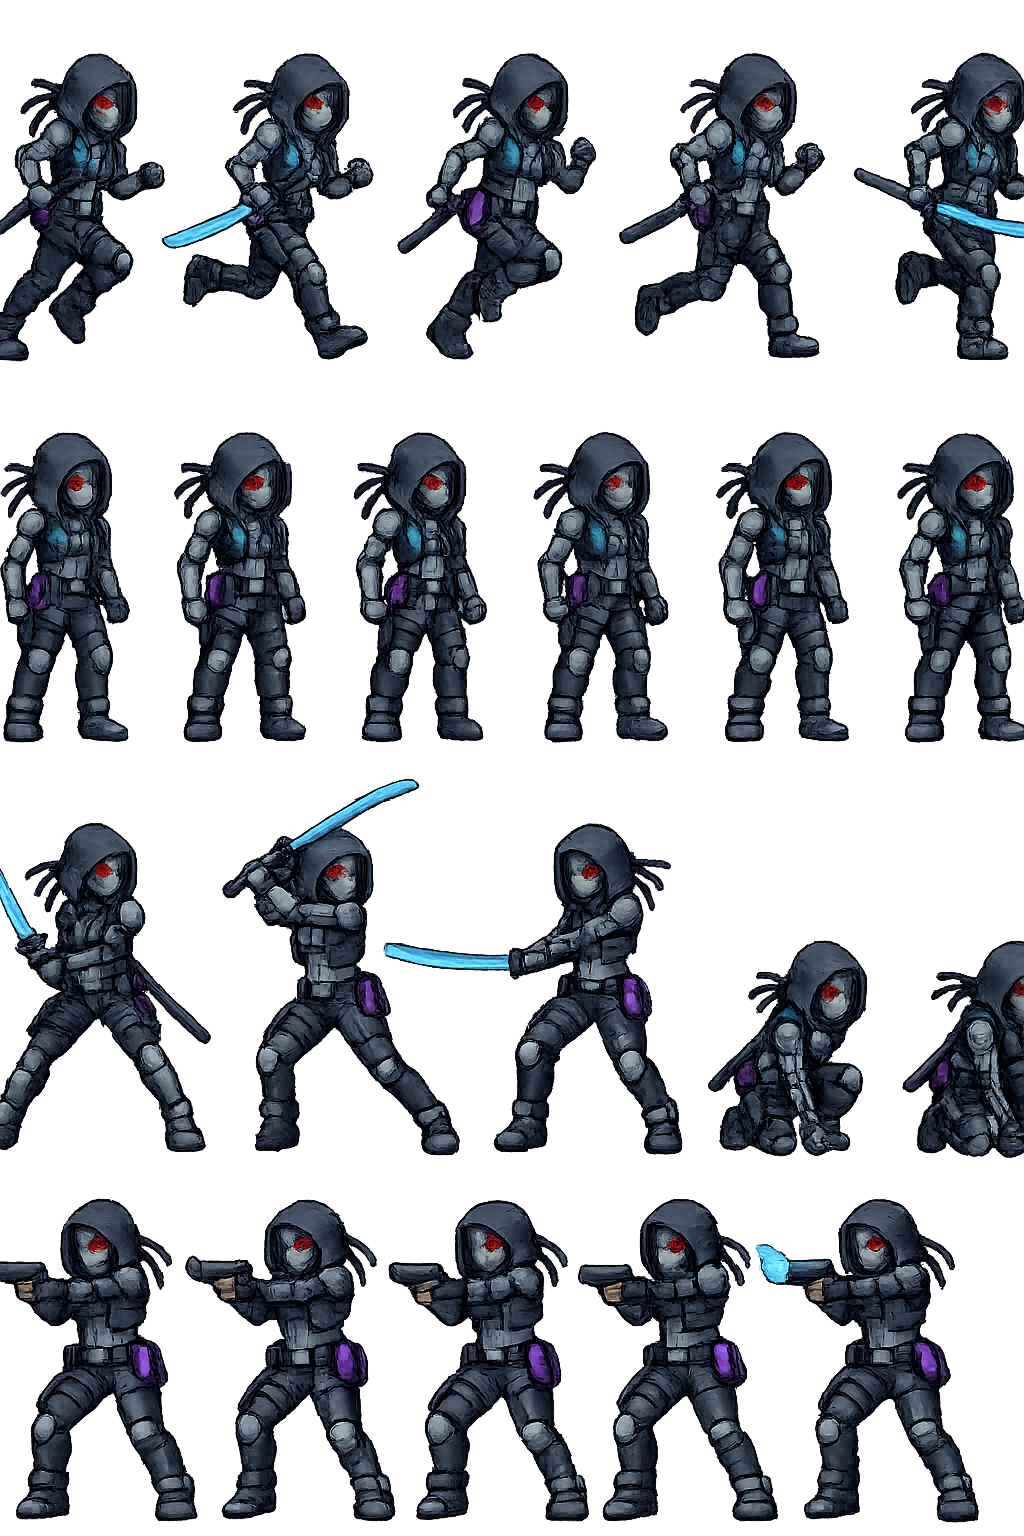
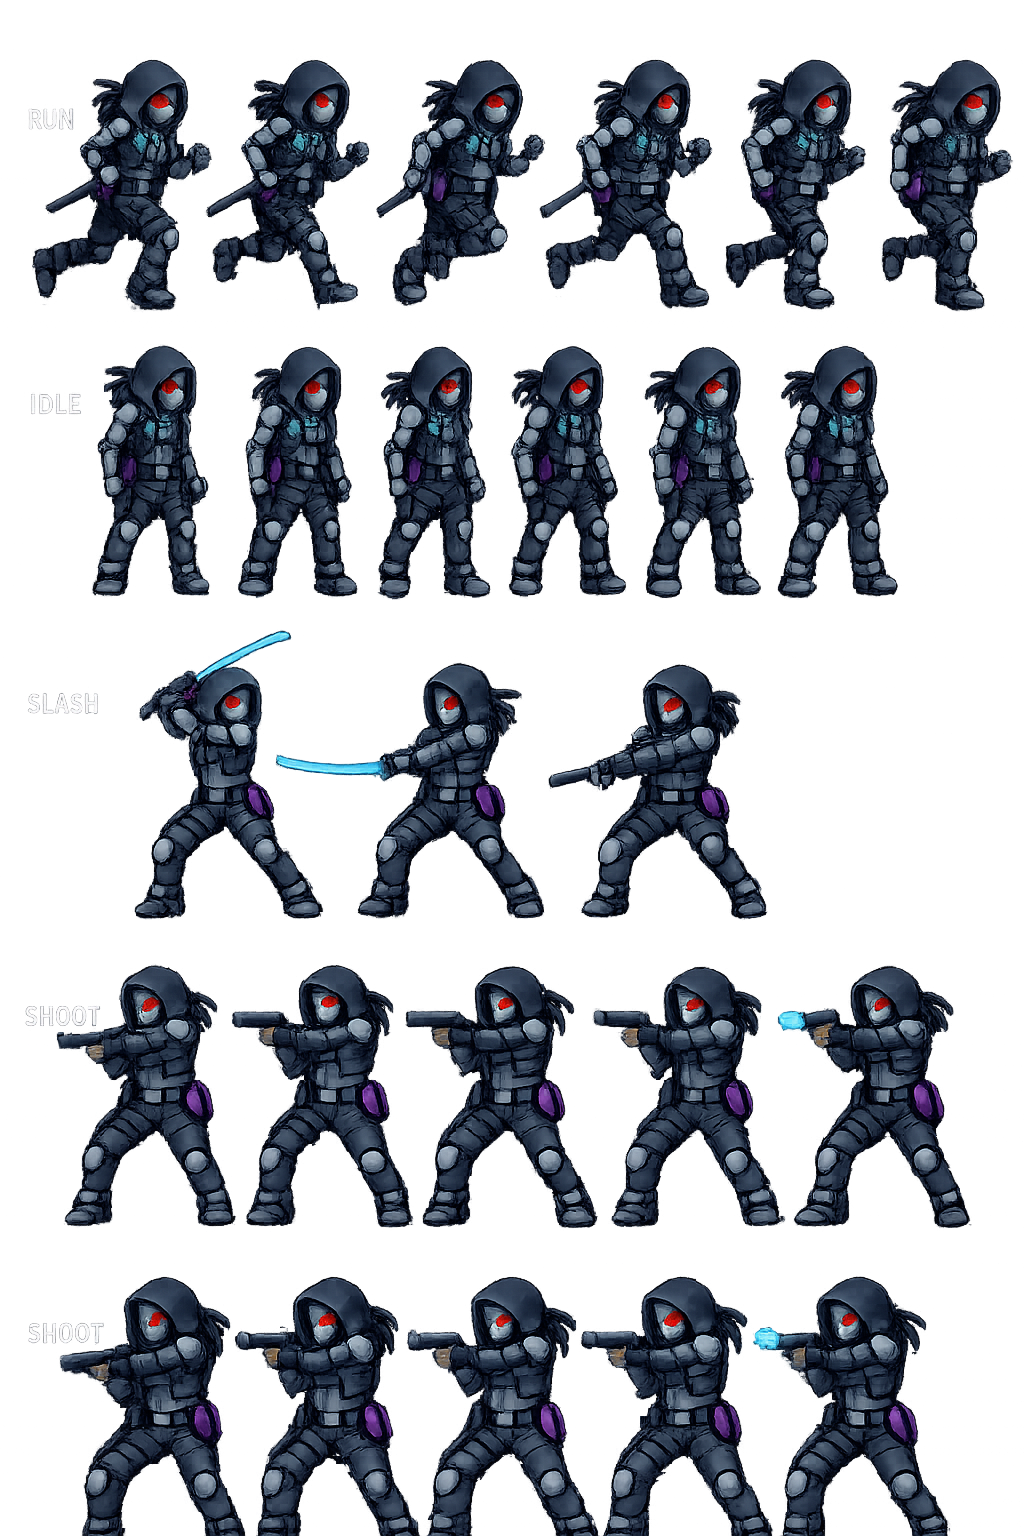
personaje bien puesto :D

diff --git a/main.py b/main.py
@@ -77,86 +77,109 @@ def _load_image_from_images(*names):
         f"No encontré el spritesheet en /images. Probé: {names}"
     )
 
-def _slice_trim_scale(sheet, rect: pygame.Rect, target_h: int):
-    """Corta rect, recorta transparencia alrededor y escala a altura target_h.
-    Si rect se sale del sheet, se recorta al área válida."""
+def _make_player_frame(sheet, rect: pygame.Rect, canvas_w: int, canvas_h: int, scale: float, min_alpha: int = 10):
+    """
+    1) Corta el rect
+    2) Encuentra el bounding box real (sin basurita de alpha bajo)
+    3) Pega en un CANVAS FIJO alineando al piso (bottom) y centrado
+    4) Escala con UN SOLO factor (scale) para que no "respire" ni tiemble
+    """
     bounds = sheet.get_rect()
     rect = rect.clip(bounds)
     if rect.width <= 0 or rect.height <= 0:
-        out = pygame.Surface((1, target_h or 1), pygame.SRCALPHA)
+        out = pygame.Surface((max(1, int(canvas_w * scale)), max(1, int(canvas_h * scale))), pygame.SRCALPHA)
         return out
-    surf = sheet.subsurface(rect).copy()
-    br = surf.get_bounding_rect()
-    if br.width <= 0 or br.height <= 0:
-        out = pygame.Surface((1, target_h or 1), pygame.SRCALPHA)
-        return out
-    surf = surf.subsurface(br).copy()
+    crop = sheet.subsurface(rect).copy()
 
-    if target_h is not None:
-        scale = target_h / max(1, surf.get_height())
-        w = max(1, int(surf.get_width() * scale))
-        surf = pygame.transform.smoothscale(surf, (w, target_h))
-    return surf
+    try:
+        br = crop.get_bounding_rect(min_alpha=min_alpha)
+    except TypeError:
+        br = crop.get_bounding_rect()
+    if br.w <= 0 or br.h <= 0:
+        br = crop.get_rect()
 
-# Ajusta esta altura si quieres el personaje más grande/pequeño en pantalla
-PLAYER_SPRITE_H = 96
+    canvas = pygame.Surface((canvas_w, canvas_h), pygame.SRCALPHA)
+
+    dx = (canvas_w - br.w) // 2          # centrado horizontal
+    dy = canvas_h - br.h                  # alineado al piso (bottom)
+
+    canvas.blit(crop, (dx, dy), area=br)
+
+    out_w = max(1, int(canvas_w * scale))
+    out_h = max(1, int(canvas_h * scale))
+    return pygame.transform.smoothscale(canvas, (out_w, out_h))
 
 # Carga con fallback por si el nombre está mal escrito
 _player_sheet = _load_image_from_images("spites.png", "spirtes.png", "sprites.png")
 
-# Coordenadas (basadas en tu sheet):
-# - Filas:
-#   Run:   y=64..485   (5 columnas iguales)
-#   Idle:  y=574..991  (6 frames con anchos distintos)
-#   Slash: y=1035..1546 (usaremos 3 primeros frames)
-#   Shoot: y=1595..2035 (5 columnas iguales)
+# ─────────────────────────────────────────────────────────
+# COORDENADAS PARA EL NUEVO SPRITESHEET (1024x1536)
+# Layout detectado:
+# RUN   : y 0..324    (6 frames)
+# IDLE  : y 325..614  (6 frames)
+# SLASH : y 615..937  (3 frames)
+# SHOOT : y 938..1254 (5 frames)  (la fila 5 se ignora)
+# ─────────────────────────────────────────────────────────
 
-RUN_Y0, RUN_H   = 64,   (485 - 64 + 1)
-IDLE_Y0, IDLE_H = 574,  (991 - 574 + 1)
-SLASH_Y0, SLASH_H = 1035, (1546 - 1035 + 1)
-SHOOT_Y0, SHOOT_H = 1595, (2035 - 1595 + 1)
+SHEET_W, SHEET_H = _player_sheet.get_width(), _player_sheet.get_height()
 
-CELL_W_5 = _player_sheet.get_width() // 5  # 1365//5 = 273
+RUN_Y0,   RUN_H   = 0,   325
+IDLE_Y0,  IDLE_H  = 325, 290
+SLASH_Y0, SLASH_H = 615, 323
+SHOOT_Y0, SHOOT_H = 938, 317
 
-# RUN (5 frames)
-SPR_RUN_R = [
-    _slice_trim_scale(_player_sheet, pygame.Rect(i*CELL_W_5, RUN_Y0, CELL_W_5, RUN_H), PLAYER_SPRITE_H)
-    for i in range(5)
+# Rangos X (x0, x1) por frame — ajustados para NO coger los textos
+RUN_X = [
+    (73, 201), (201, 379), (379, 537),
+    (537, 722), (722, 871), (871, 1003),
+]
+IDLE_X = [
+    (82, 223), (223, 366), (366, 498),
+    (498, 632), (632, 769), (769, 982),
+]
+SLASH_X = [
+    (121, 336), (336, 552), (552, 846),
+]
+# OJO: el frame 1 de SHOOT tiene el arma muy hacia la izquierda, por eso empieza en 110
+SHOOT_X = [
+    (110, 238), (238, 415), (415, 600),
+    (600, 783), (783, 1002),
 ]
 
-# IDLE (6 frames con x-ranges específicos)
-_idle_xranges = [
-    (0,   173),
-    (224, 410),
-    (467, 650),
-    (704, 895),
-    (936, 1134),
-    (1194, 1364),
-]
-SPR_IDLE_R = [
-    _slice_trim_scale(_player_sheet,
-                      pygame.Rect(x0, IDLE_Y0, (x1-x0+1), IDLE_H),
-                      PLAYER_SPRITE_H)
-    for (x0, x1) in _idle_xranges
-]
+# Canvas fijo (para estabilidad, sin jitter)
+_all_widths = [x1 - x0 for (x0, x1) in (RUN_X + IDLE_X + SLASH_X + SHOOT_X)]
+SRC_CANVAS_W = max(_all_widths) + 2          # +2 por seguridad
+SRC_CANVAS_H = max(RUN_H, IDLE_H, SLASH_H, SHOOT_H)
 
-# SLASH (usa los 3 primeros "celdas" de la fila de ataques)
-SPR_SLASH_R = [
-    _slice_trim_scale(_player_sheet, pygame.Rect(i*CELL_W_5, SLASH_Y0, CELL_W_5, SLASH_H), PLAYER_SPRITE_H)
-    for i in range(3)
-]
+# Tamaño final del personaje (ajústalo a gusto)
+PLAYER_SPRITE_H = 96
+SPR_SCALE = PLAYER_SPRITE_H / SRC_CANVAS_H
 
-# SHOOT (5 frames)
-SPR_SHOOT_R = [
-    _slice_trim_scale(_player_sheet, pygame.Rect(i*CELL_W_5, SHOOT_Y0, CELL_W_5, SHOOT_H), PLAYER_SPRITE_H)
-    for i in range(5)
-]
+def _build_frames(x_ranges, y0, h):
+    return [
+        _make_player_frame(
+            _player_sheet,
+            pygame.Rect(x0, y0, (x1 - x0), h),
+            SRC_CANVAS_W,
+            SRC_CANVAS_H,
+            SPR_SCALE
+        )
+        for (x0, x1) in x_ranges
+    ]
 
-# Versiones "mirrored" para mirar a la izquierda
+SPR_RUN_R   = _build_frames(RUN_X,   RUN_Y0,   RUN_H)
+SPR_IDLE_R  = _build_frames(IDLE_X,  IDLE_Y0,  IDLE_H)
+SPR_SLASH_R = _build_frames(SLASH_X, SLASH_Y0, SLASH_H)
+SPR_SHOOT_R = _build_frames(SHOOT_X, SHOOT_Y0, SHOOT_H)
+
 SPR_RUN_L   = [pygame.transform.flip(s, True, False) for s in SPR_RUN_R]
 SPR_IDLE_L  = [pygame.transform.flip(s, True, False) for s in SPR_IDLE_R]
 SPR_SLASH_L = [pygame.transform.flip(s, True, False) for s in SPR_SLASH_R]
 SPR_SHOOT_L = [pygame.transform.flip(s, True, False) for s in SPR_SHOOT_R]
+
+# Dimensiones fijas (ya no cambian entre frames)
+PLAYER_FRAME_W = SPR_RUN_R[0].get_width()
+PLAYER_FRAME_H = SPR_RUN_R[0].get_height()
 
 try:
     FNT_BIG = pygame.font.SysFont("consolas", 52, bold=True)
@@ -538,8 +561,8 @@ class Player:
             glow_circle(surf, PURPLE, rx + self.PW // 2, ry + self.PH // 2, 52, 55)
 
         # Dibujar alineando "pies" con el collider (bottom-align)
-        px = rx + self.PW // 2 - frame.get_width() // 2
-        py = ry + self.PH - frame.get_height()
+        px = rx + self.PW // 2 - PLAYER_FRAME_W // 2
+        py = ry + self.PH - PLAYER_FRAME_H
         surf.blit(frame, (px, py))
 
         # Mantén tus SlashEffects (si quieres el arco de corte encima)
